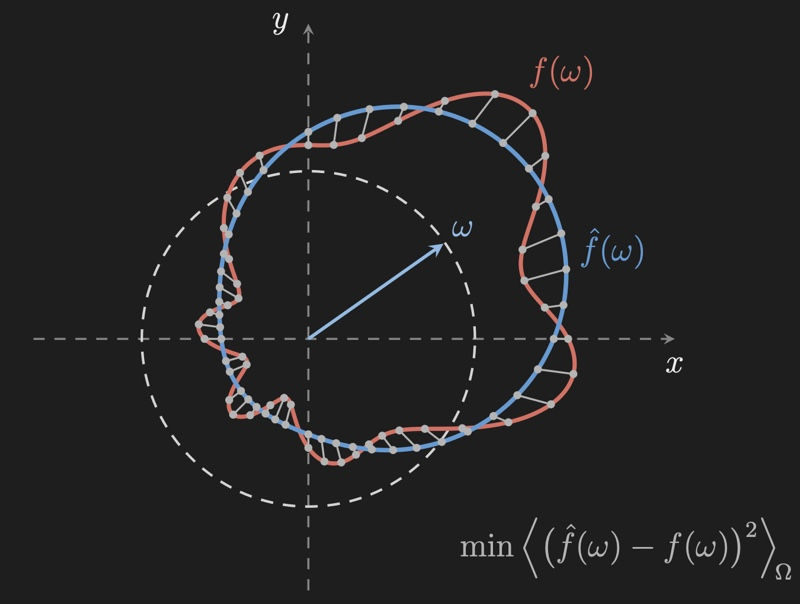
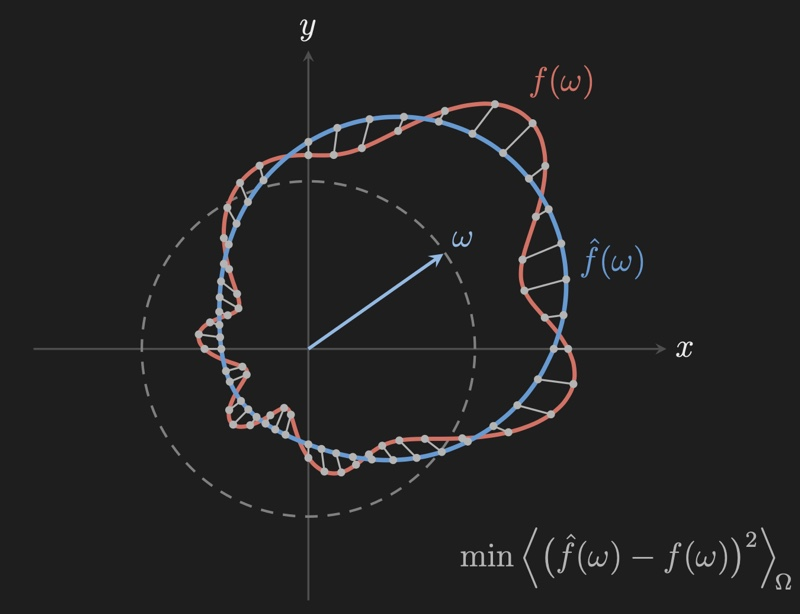
Tweaks to header image.

diff --git a/images/spherical-harmonics-header.tex b/images/spherical-harmonics-header.tex
@@ -5,8 +5,8 @@
 % Colors matching blog _variables.scss
 \definecolor{bg}{HTML}{1E1E1E}
 \definecolor{textlight}{HTML}{ECECEC}
-\definecolor{circlelight}{HTML}{D4D4D4}
-\definecolor{muted}{HTML}{858585}
+\definecolor{axisgray}{HTML}{4E4E4E}
+\definecolor{circlegray}{HTML}{808080}
 \definecolor{errbar}{HTML}{B4B4B4}
 \definecolor{shblue}{HTML}{569CD6}
 \definecolor{omegablue}{HTML}{8ABBE6}
@@ -19,19 +19,19 @@
     font=\large
 ]
     % Tighter bounding box around the diagram so it renders larger on the page
-    \path[use as bounding box] (-1.85,-1.58) rectangle (2.95,2.02);
-    \fill[bg] (-1.85,-1.58) rectangle (2.95,2.02);
+    \path[use as bounding box] (-1.85,-1.58) rectangle (2.95,2.08);
+    \fill[bg] (-1.85,-1.58) rectangle (2.95,2.08);
 
-    % Coordinate axes (dashed)
-    \draw[->, dashed, color=muted, line width=0.75pt, dash pattern=on 4pt off 3.5pt]
-        (-1.65,0) -- (2.20,0)
-        node[below, color=textlight, yshift=-3pt] {$x$};
-    \draw[->, dashed, color=muted, line width=0.75pt, dash pattern=on 4pt off 3.5pt]
-        (0,-1.50) -- (0,1.88)
-        node[left, color=textlight, xshift=-3pt] {$y$};
+    % Coordinate axes (solid, darker/fainter, with x and y aligned right at the arrow tips)
+    \draw[->, color=axisgray, line width=0.75pt]
+        (-1.65,0) -- (2.15,0)
+        node[right, color=textlight, inner sep=3pt] {$x$};
+    \draw[->, color=axisgray, line width=0.75pt]
+        (0,-1.50) -- (0,1.78)
+        node[above, color=textlight, inner sep=3pt] {$y$};
 
-    % Unit circle (dashed, r = 1 removed)
-    \draw[dashed, color=circlelight, line width=0.9pt, dash pattern=on 4.5pt off 3.5pt]
+    % Unit circle (dashed, darker than before but lighter than the axes lines)
+    \draw[dashed, color=circlegray, line width=0.9pt, dash pattern=on 4.5pt off 3.5pt]
         (0,0) circle (1.0);
 
     % Unit direction vector \omega (shortened to touch the unit circle, label at tip)
